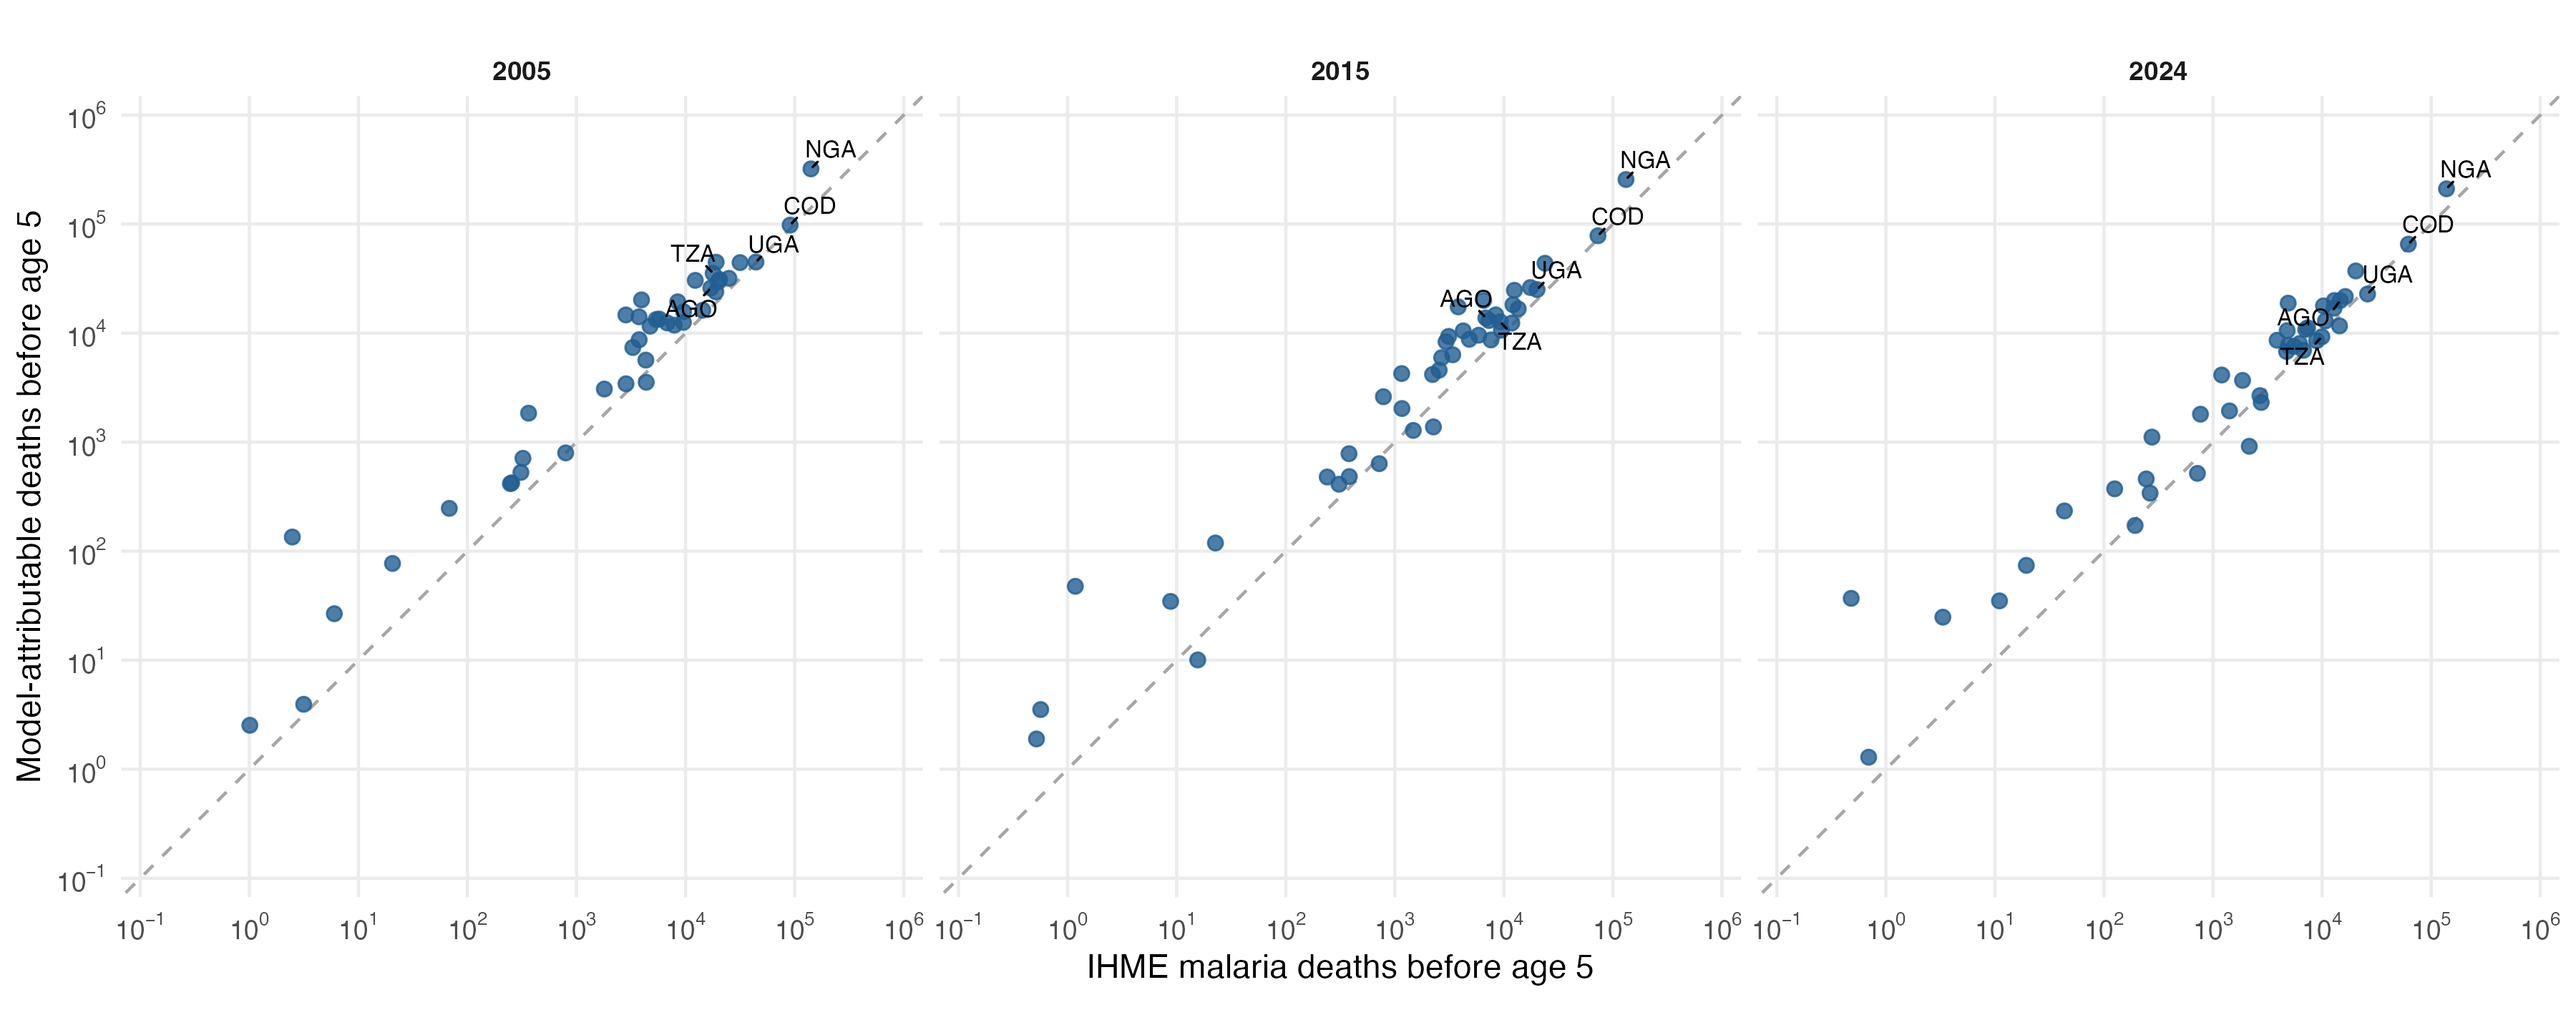
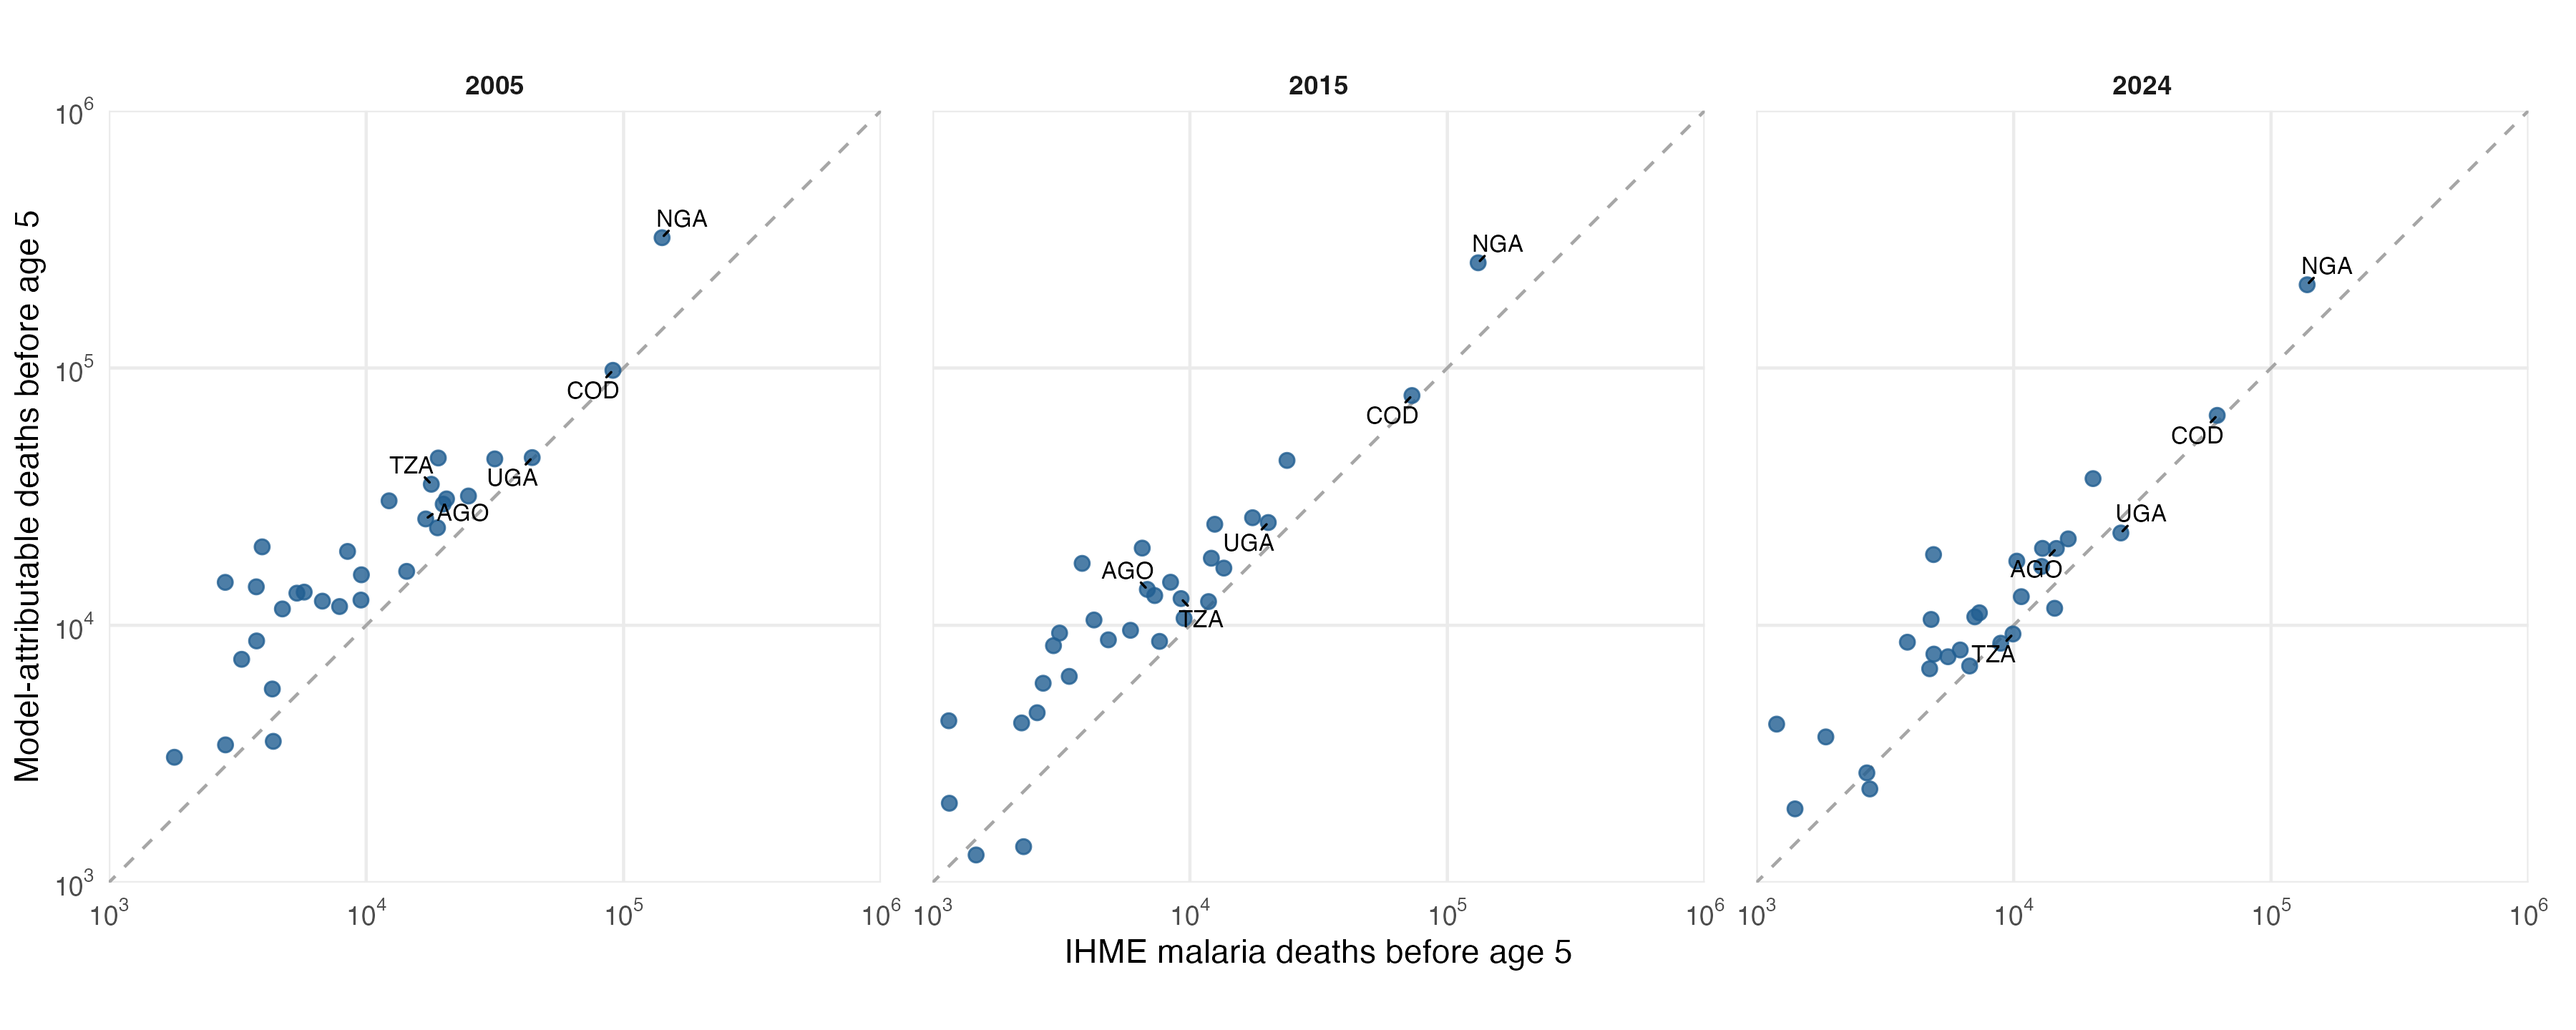
Start IHME comparison axes at one thousand deaths

diff --git a/results/cbh/primary_map_gamma2_v1/paper_figures/CAPTIONS.md b/results/cbh/primary_map_gamma2_v1/paper_figures/CAPTIONS.md
@@ -20,6 +20,6 @@ Age-specific associations between MAP PfPR[2–10] and all-cause mortality, esti
 
 File: `fig3_country_estimates_vs_ihme.png`.
 
-Primary-model malaria-attributable deaths before age 5 versus IHME cause-specific malaria deaths, by country in 2005, 2015 and 2024. Both axes use a base-10 logarithmic scale with identical limits; each point represents a country and the dashed line denotes equality. All 42 estimable countries per year are included, with no pseudocount. The three countries without model estimates remain in the source tables. Model-attributable deaths equal national IHME all-cause deaths multiplied by 1 − exp[f_g(0) − f_g(P_country)], summed over age bands. National MAP prevalence is population weighted using the saved 2020 population weights. Ages 2–4 share the IHME mortality rate and divide deaths/person-time equally. Country totals are point estimates; cross-age covariance and source/design/imputation uncertainty are not propagated. Model-attributable all-cause reductions and IHME cause-specific mortality are different estimands.
+Primary-model malaria-attributable deaths before age 5 versus IHME cause-specific malaria deaths, by country in 2005, 2015 and 2024. Both axes use a base-10 logarithmic scale with identical limits starting at 1,000 deaths; each point represents a country and the dashed line denotes equality. The underlying estimates include all 42 estimable countries per year, with no pseudocount; points below 1,000 deaths on either axis are outside the displayed range. The three countries without model estimates remain in the source tables. Model-attributable deaths equal national IHME all-cause deaths multiplied by 1 − exp[f_g(0) − f_g(P_country)], summed over age bands. National MAP prevalence is population weighted using the saved 2020 population weights. Ages 2–4 share the IHME mortality rate and divide deaths/person-time equally. Country totals are point estimates; cross-age covariance and source/design/imputation uncertainty are not propagated. Model-attributable all-cause reductions and IHME cause-specific mortality are different estimands.
 
 [Source paths and hashes](manifest.csv). Copy only these three images into the manuscript's `figures/` folder. No TeX edits are needed to prepare or copy the images; TeX references/captions are managed separately.

diff --git a/docs/ANALYSIS_PLAN.md b/docs/ANALYSIS_PLAN.md
@@ -219,7 +219,7 @@ Retain signed contributions, zero/current-prevalence support flags and condition
 | Supplementary sensitivity results | Structure, geography, survey period, timing, design, missingness and other declared checks | Label old gamma=1 exploratory results separately from planned gamma=2 refits |
 | Historical archive | Six-band person-time/count models, old joint fits and earlier burden outputs | [Archived plan](ANALYSIS_PLAN_BEFORE_MAP_GAMMA2.md), original result directories and code audit |
 
-The paper's Figure 2 is the primary PfPR-by-age curve figure; Figure 3 is the country comparison with IHME for 2005/2015/2024, using true base-10 logarithmic scales on both axes with the same limits. All 42 estimable countries per year have positive values and remain visible. The three paper figures omit titles, subtitles and embedded captions; separate caption text and filename mappings are in the [paper figure manifest](../results/cbh/primary_map_gamma2_v1/paper_figures/CAPTIONS.md). Preparing/copying figures does not edit manuscript TeX.
+The paper's Figure 2 is the primary PfPR-by-age curve figure; Figure 3 is the country comparison with IHME for 2005/2015/2024, using true base-10 logarithmic scales on both axes with the same limits. Both axes start at 1,000 deaths. All 42 estimable countries per year have positive estimates; points below the display minimum on either axis are clipped from the figure, with all underlying estimates retained. The three paper figures omit titles, subtitles and embedded captions; separate caption text and filename mappings are in the [paper figure manifest](../results/cbh/primary_map_gamma2_v1/paper_figures/CAPTIONS.md). Preparing/copying figures does not edit manuscript TeX.
 
 Plotting-only stages must read saved aggregate estimates and must not refit, change exposure definitions or select models according to available cache files. Label source, sample period, gamma, age bands, contrast and uncertainty. A combined MAP–Snow figure is supplementary; a main-results figure must select only the full MAP gamma=2 series. Keep links to authoritative saved artifacts instead of copying figures into competing locations.
 

diff --git a/R_cbh/primary/README.md b/R_cbh/primary/README.md
@@ -29,6 +29,6 @@ The fixed HIV imputation, unweighted likelihood, conditional covariance, inherit
 
 ## Paper figures
 
-`03_report.R` exports the primary PfPR and country-versus-IHME figures without titles, subtitles or embedded captions. Both country-comparison axes use a true log10 scale and common limits; missing/nonpositive pairs are listed in `burden/log10_plot_exclusions.csv`. The other mortality figures retain their existing scales.
+`03_report.R` exports the primary PfPR and country-versus-IHME figures without titles, subtitles or embedded captions. Both country-comparison axes use a true log10 scale and common limits starting at 1,000 deaths; points below the minimum on either axis are outside the plotting window, with their estimates retained in the tables; missing/nonpositive pairs are listed in `burden/log10_plot_exclusions.csv`. The other mortality figures retain their existing scales.
 
 `04_diagnostics.R` exports the aggregate union of included regions per survey. `reporting/03_survey_map.R` combines this with the registry and existing country outlines to regenerate the survey map for the current primary sample (105 surveys/34 countries), without fitting or rebuilding individual records. `reporting/04_paper_figures.R` records the three figure filenames, source hashes and separate captions. These stages are included in the primary runner. The runner writes only inside this project; copying the three PNGs to Overleaf is a separate explicit action and never edits TeX.

diff --git a/results/cbh/primary_map_gamma2_v1/REPORT.md b/results/cbh/primary_map_gamma2_v1/REPORT.md
@@ -30,7 +30,7 @@ For each age band, HR = exp[f_g(0) − f_g(P_country)]. The IHME all-cause rate/
 
 ![Country estimates](burden/country_vs_ihme.png)
 
-Both axes use a true log10 scale with identical limits. All 42 estimable countries per year are retained; [excluded country-year rows](burden/log10_plot_exclusions.csv) have unavailable estimates. No pseudocount is added. Titles and subtitles are omitted from the paper's PfPR and country-comparison figures; years and age-band facet labels remain.
+Both axes use a true log10 scale with identical limits starting at 1,000 deaths. Countries below 1,000 on either axis fall outside the displayed range; [these rows](burden/log10_below_display_minimum.csv) and all underlying estimates are retained. There are 42 estimable countries per year; [excluded country-year rows](burden/log10_plot_exclusions.csv) have unavailable estimates. No pseudocount is added. Titles and subtitles are omitted from the paper's PfPR and country-comparison figures; years and age-band facet labels remain.
 
 [Every country's figure](burden/country_deaths_all_years.png) · [Country totals](burden/country_totals.csv) · [Age-band rates and deaths](burden/country_age_estimates.csv) · [Age contributions](burden/deaths_by_age.png) · [DRC survival](burden/drc_survival.png)
 
